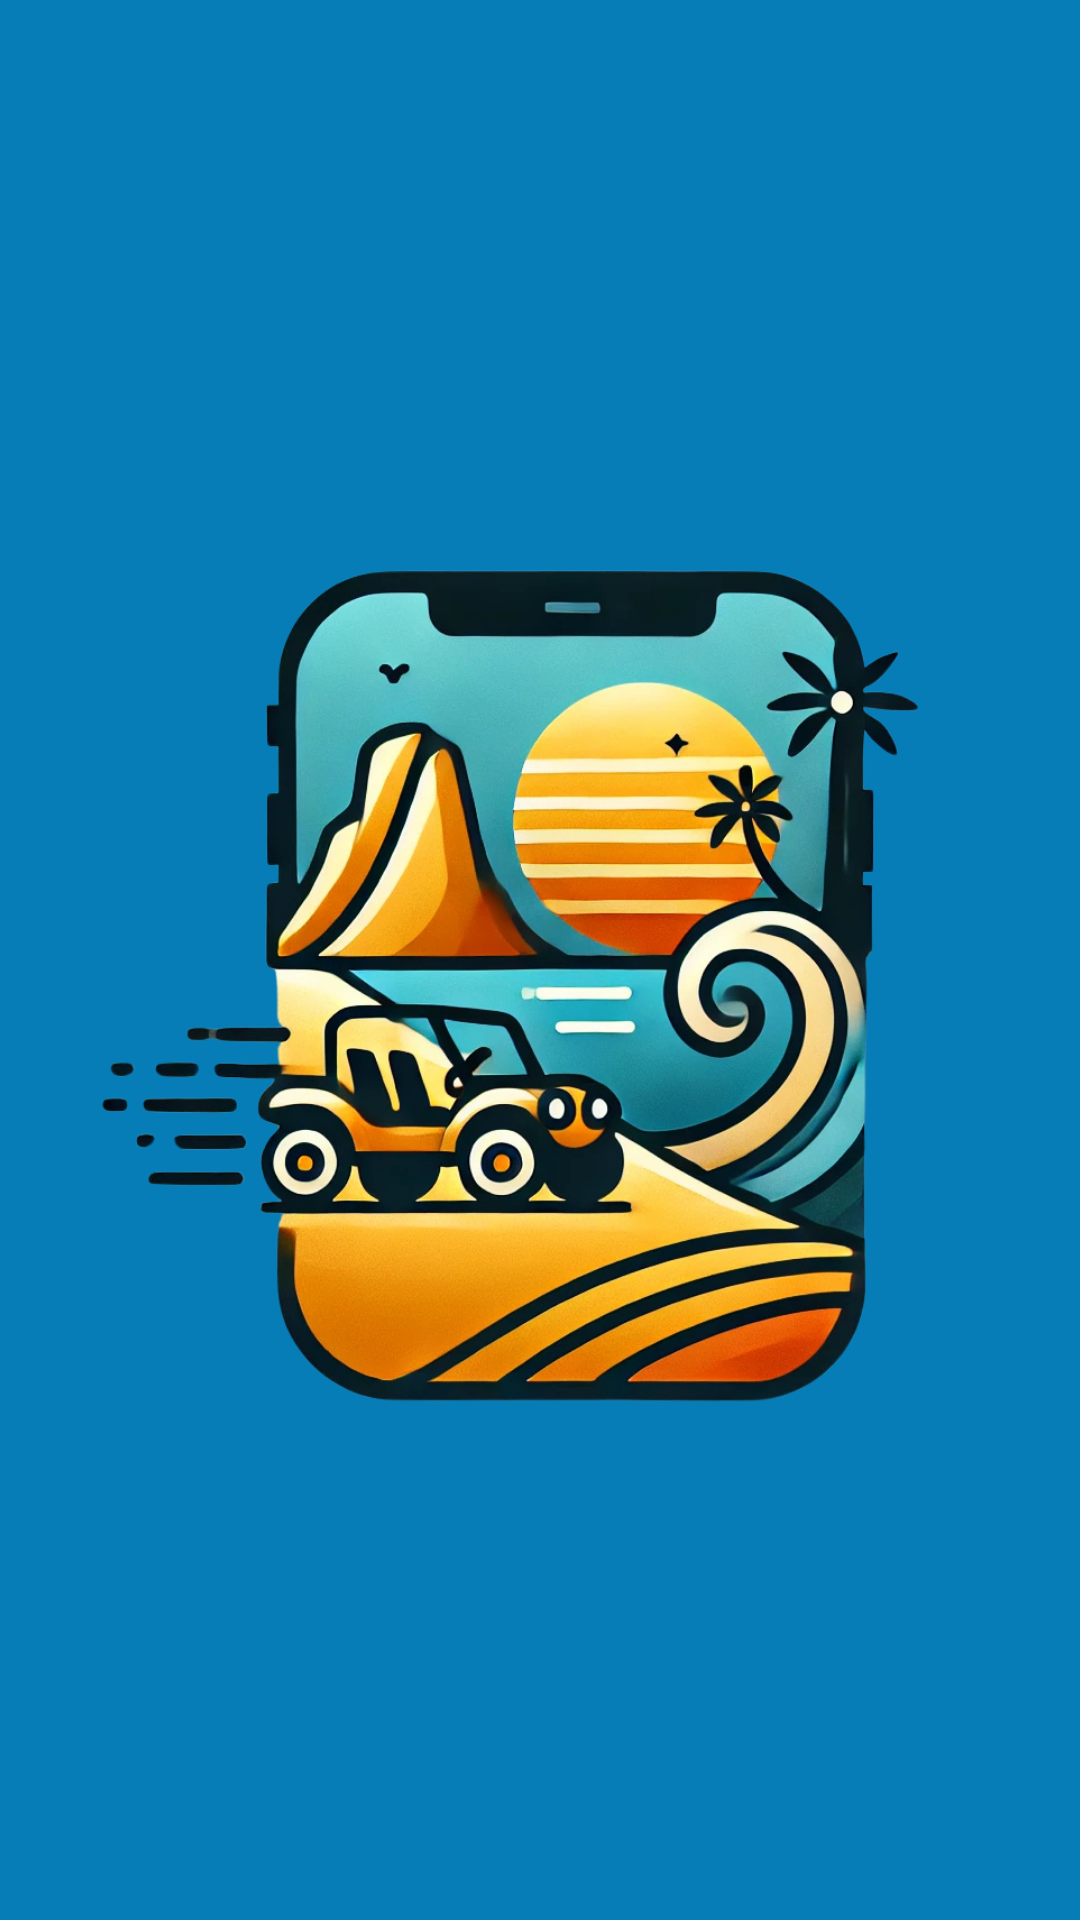
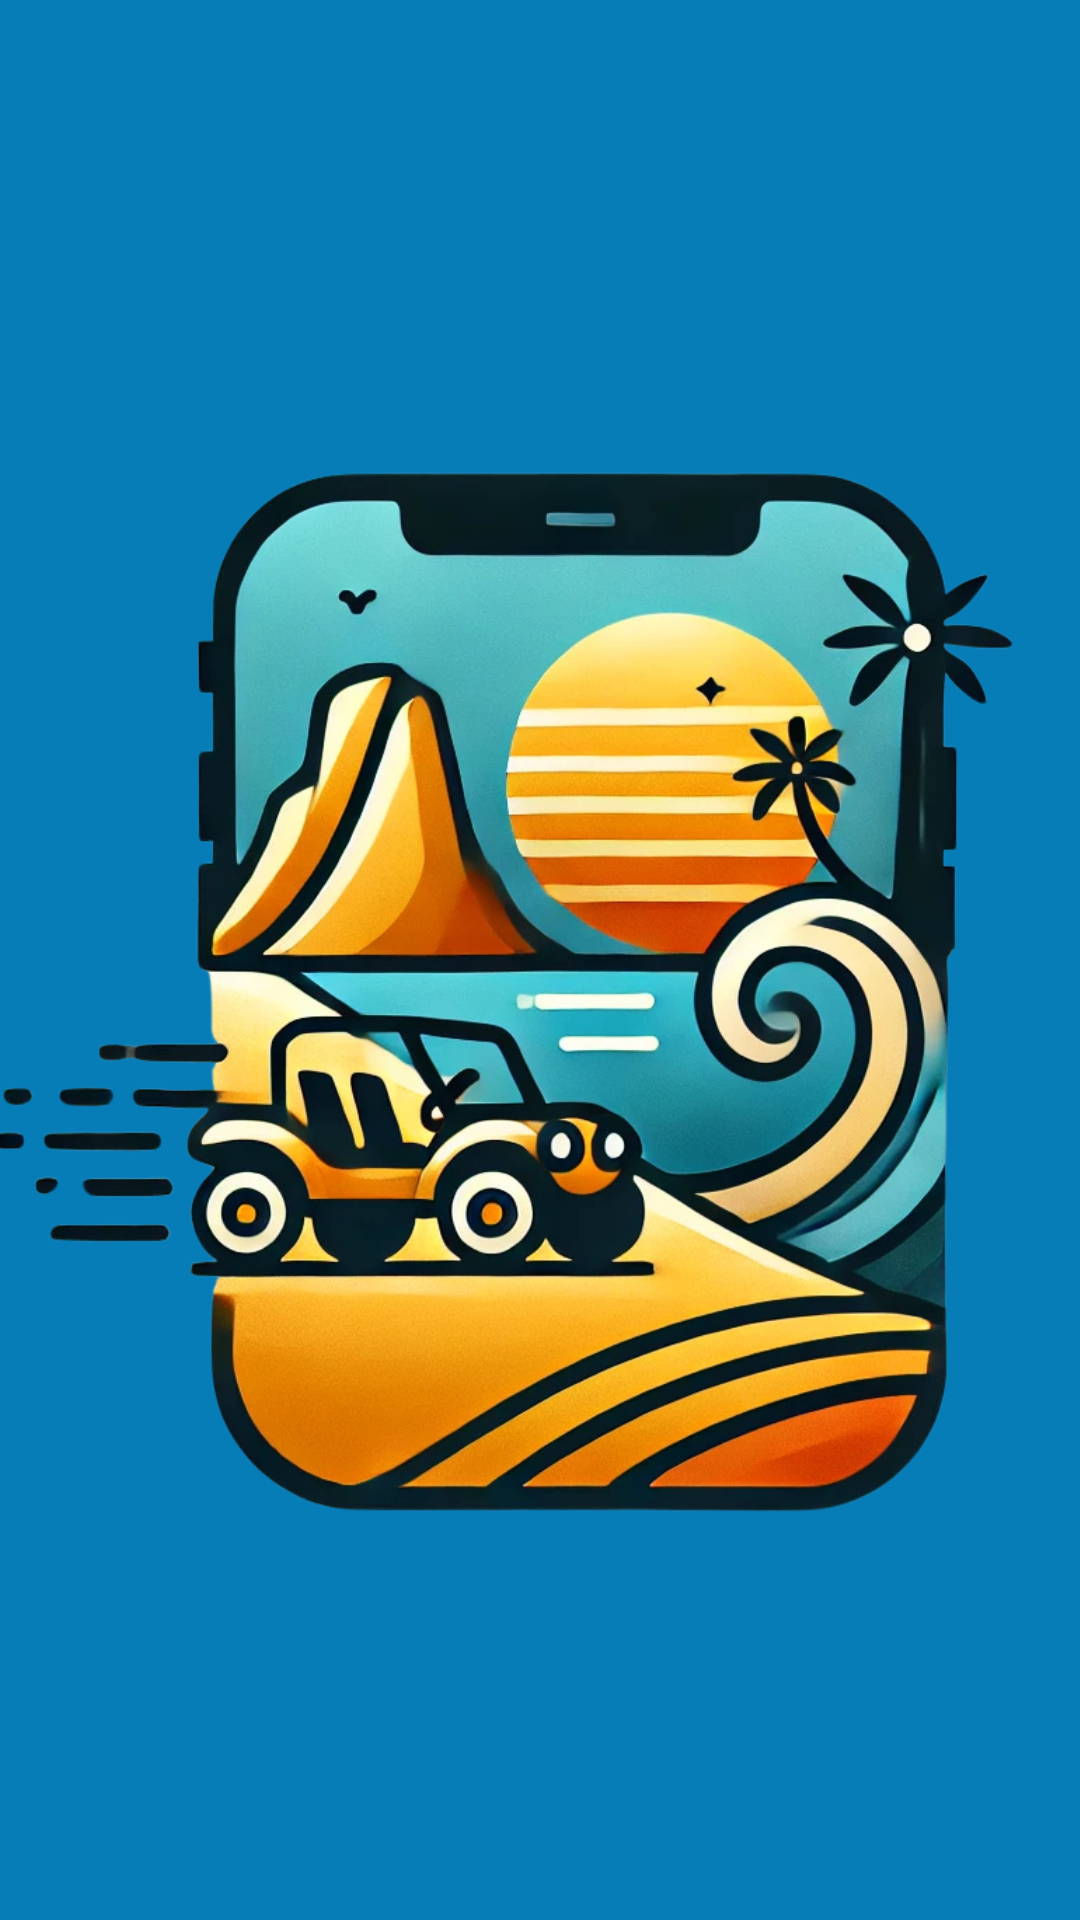
Formatação de imagens, exclusão de textos de exemplos, alteração do design

diff --git a/screens/HomeScreen.tsx b/screens/HomeScreen.tsx
@@ -38,7 +38,7 @@ const HomeScreen = ({ navigation }: any) => {
         style={[styles.button, styles.logoutButton]}
         onPress={() => navigation.navigate('Login')}
       >
-        <Text style={styles.logoutText}>Logout</Text>
+        <Text style={styles.logoutText}>Sair do App</Text>
       </TouchableOpacity>
     </View>
   );
@@ -50,10 +50,10 @@ const styles = StyleSheet.create({
     justifyContent: 'center',
     alignItems: 'center',
     padding: 20,
-    backgroundColor: '#EDF7EF',
+    backgroundColor: '#077DB8',
   },
   button: {
-    backgroundColor: '#059669',
+    backgroundColor: '#F8BB3B',
     padding: 15,
     marginVertical: 10,
     borderRadius: 8,
@@ -62,7 +62,7 @@ const styles = StyleSheet.create({
   },
   buttonText: {
     color: '#FFFFFF',
-    fontSize: 16,
+    fontSize: 18,
     fontWeight: 'bold',
   },
   logoutButton: {
@@ -70,7 +70,7 @@ const styles = StyleSheet.create({
   },
   logoutText: {
     color: '#FFFFFF',
-    fontSize: 16,
+    fontSize: 18,
     fontWeight: 'bold',
   },
 });

diff --git a/screens/LoginScreen.tsx b/screens/LoginScreen.tsx
@@ -53,18 +53,18 @@ const styles = StyleSheet.create({
     flex: 1,
     justifyContent: 'center',
     alignItems: 'center',
-    backgroundColor: '#EDF7EF',
+    backgroundColor: '#077DB8',
     padding: 20,
   },
   title: {
-    fontSize: 28,
+    fontSize: 35,
     fontWeight: 'bold',
-    color: '#333',
+    color: '#FFFFFF',
     marginBottom: 10,
   },
   subtitle: {
     fontSize: 16,
-    color: '#333',
+    color: '#FFFFFF',
     marginBottom: 20,
   },
   input: {
@@ -73,21 +73,21 @@ const styles = StyleSheet.create({
     borderWidth: 1,
     borderColor: '#ddd',
     borderRadius: 8,
-    marginBottom: 15,
+    marginBottom: 20,
     backgroundColor: '#fff',
-    fontSize: 16,
+    fontSize: 18,
   },
   button: {
     width: '100%',
     padding: 15,
-    backgroundColor: '#059669',
+    backgroundColor: '#F8BB3B',
     borderRadius: 8,
     alignItems: 'center',
     marginTop: 10,
   },
   buttonText: {
     color: '#fff',
-    fontSize: 16,
+    fontSize: 18,
     fontWeight: 'bold',
   },
   errorText: {

diff --git a/screens/DetailScreen.tsx b/screens/DetailScreen.tsx
@@ -19,7 +19,6 @@ const DetailScreen = ({ route }: any) => {
 
   return (
     <View style={styles.container}>
-      <Text style={styles.title}>{date}</Text>
       <Image source={itinerary.image} style={styles.image} />
     </View>
   );
@@ -58,25 +57,11 @@ const styles = StyleSheet.create({
     flex: 1,
     justifyContent: 'center',
     alignItems: 'center',
-    padding: 20,
     backgroundColor: '#077DB8',
   },
-  title: {
-    fontSize: 24,
-    fontWeight: 'bold',
-    color: '#333',
-    marginBottom: 10,
-  },
-  description: {
-    fontSize: 16,
-    color: '#333',
-    textAlign: 'center',
-    marginBottom: 20,
-    paddingHorizontal: 10,
-  },
   image: {
-    width: 1080,
-    height: 1920,
+    width: 378,
+    height: 672,
     borderRadius: 10, // Bordas arredondadas
     resizeMode: 'cover',
     shadowColor: '#000',

diff --git a/components/DateButton.tsx b/components/DateButton.tsx
@@ -9,7 +9,7 @@ const DateButton = ({ date, onPress }: { date: string; onPress: () => void }) =>
 
 const styles = StyleSheet.create({
   button: {
-    backgroundColor: '#059669', 
+    backgroundColor: '#FFBD59', 
     paddingVertical: 15,
     paddingHorizontal: 20,
     marginVertical: 10,
@@ -18,7 +18,7 @@ const styles = StyleSheet.create({
   },
   buttonText: {
     color: '#FFFFFF',
-    fontSize: 16,
+    fontSize: 18,
     fontWeight: 'bold',
   },
 });
